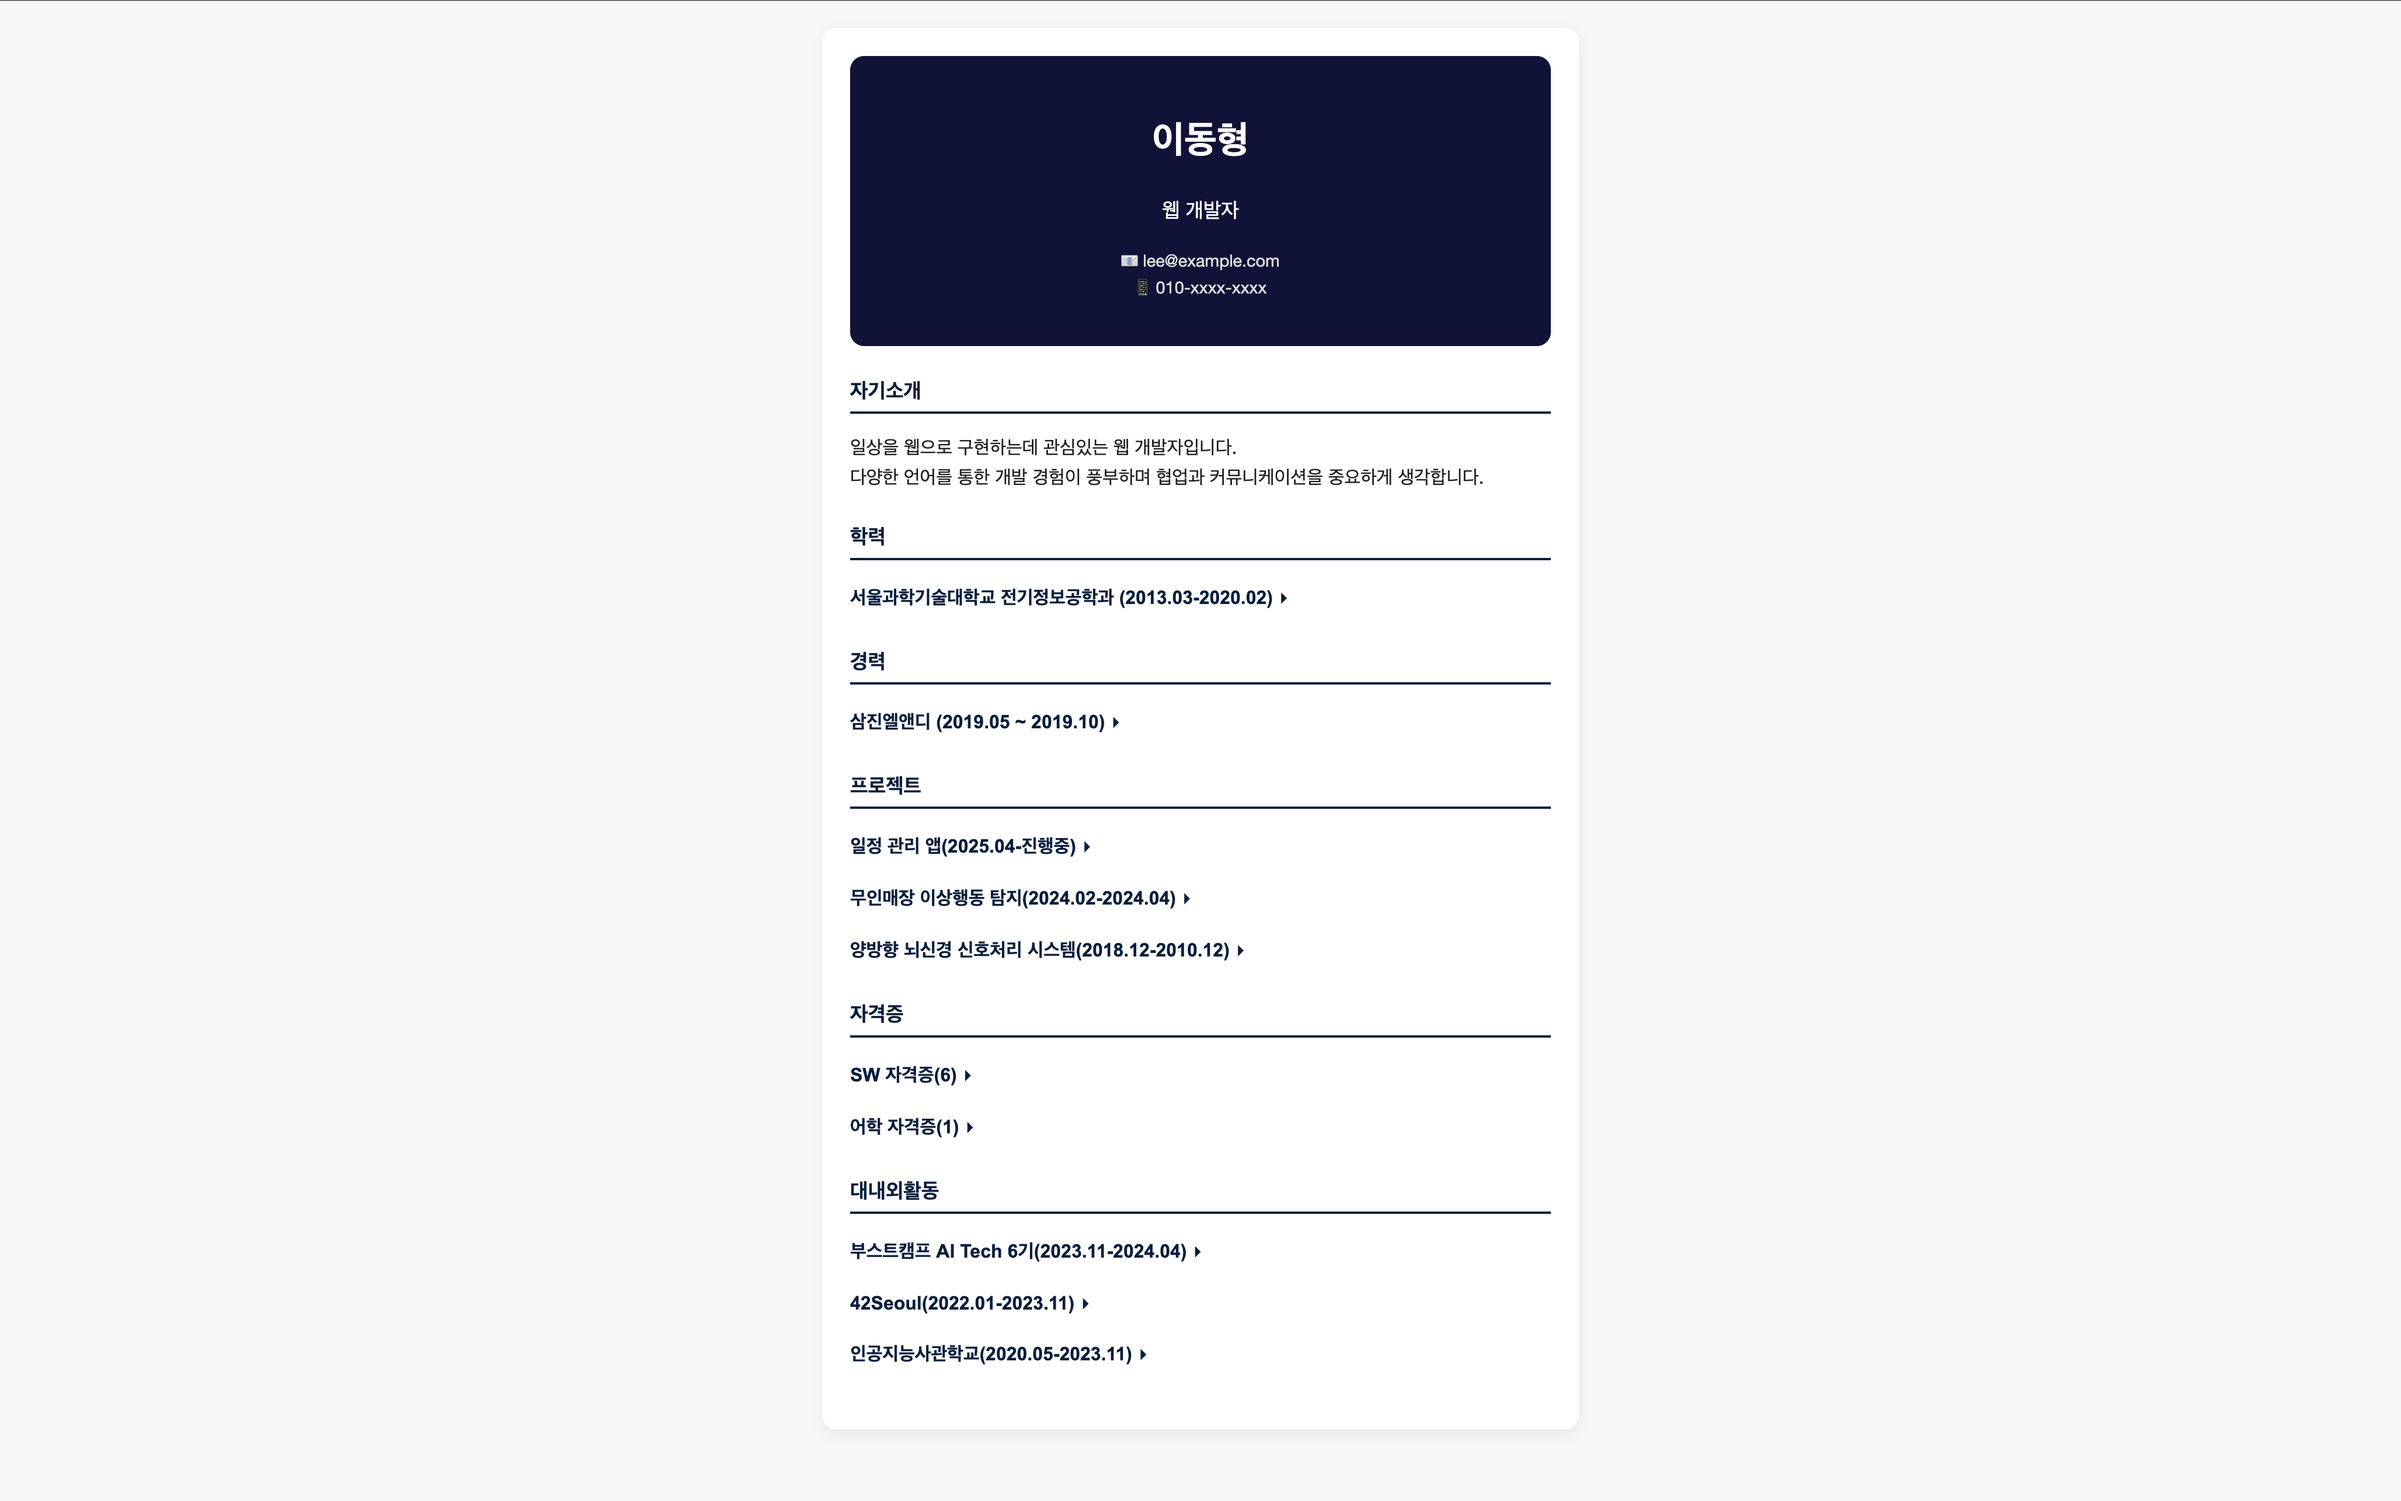
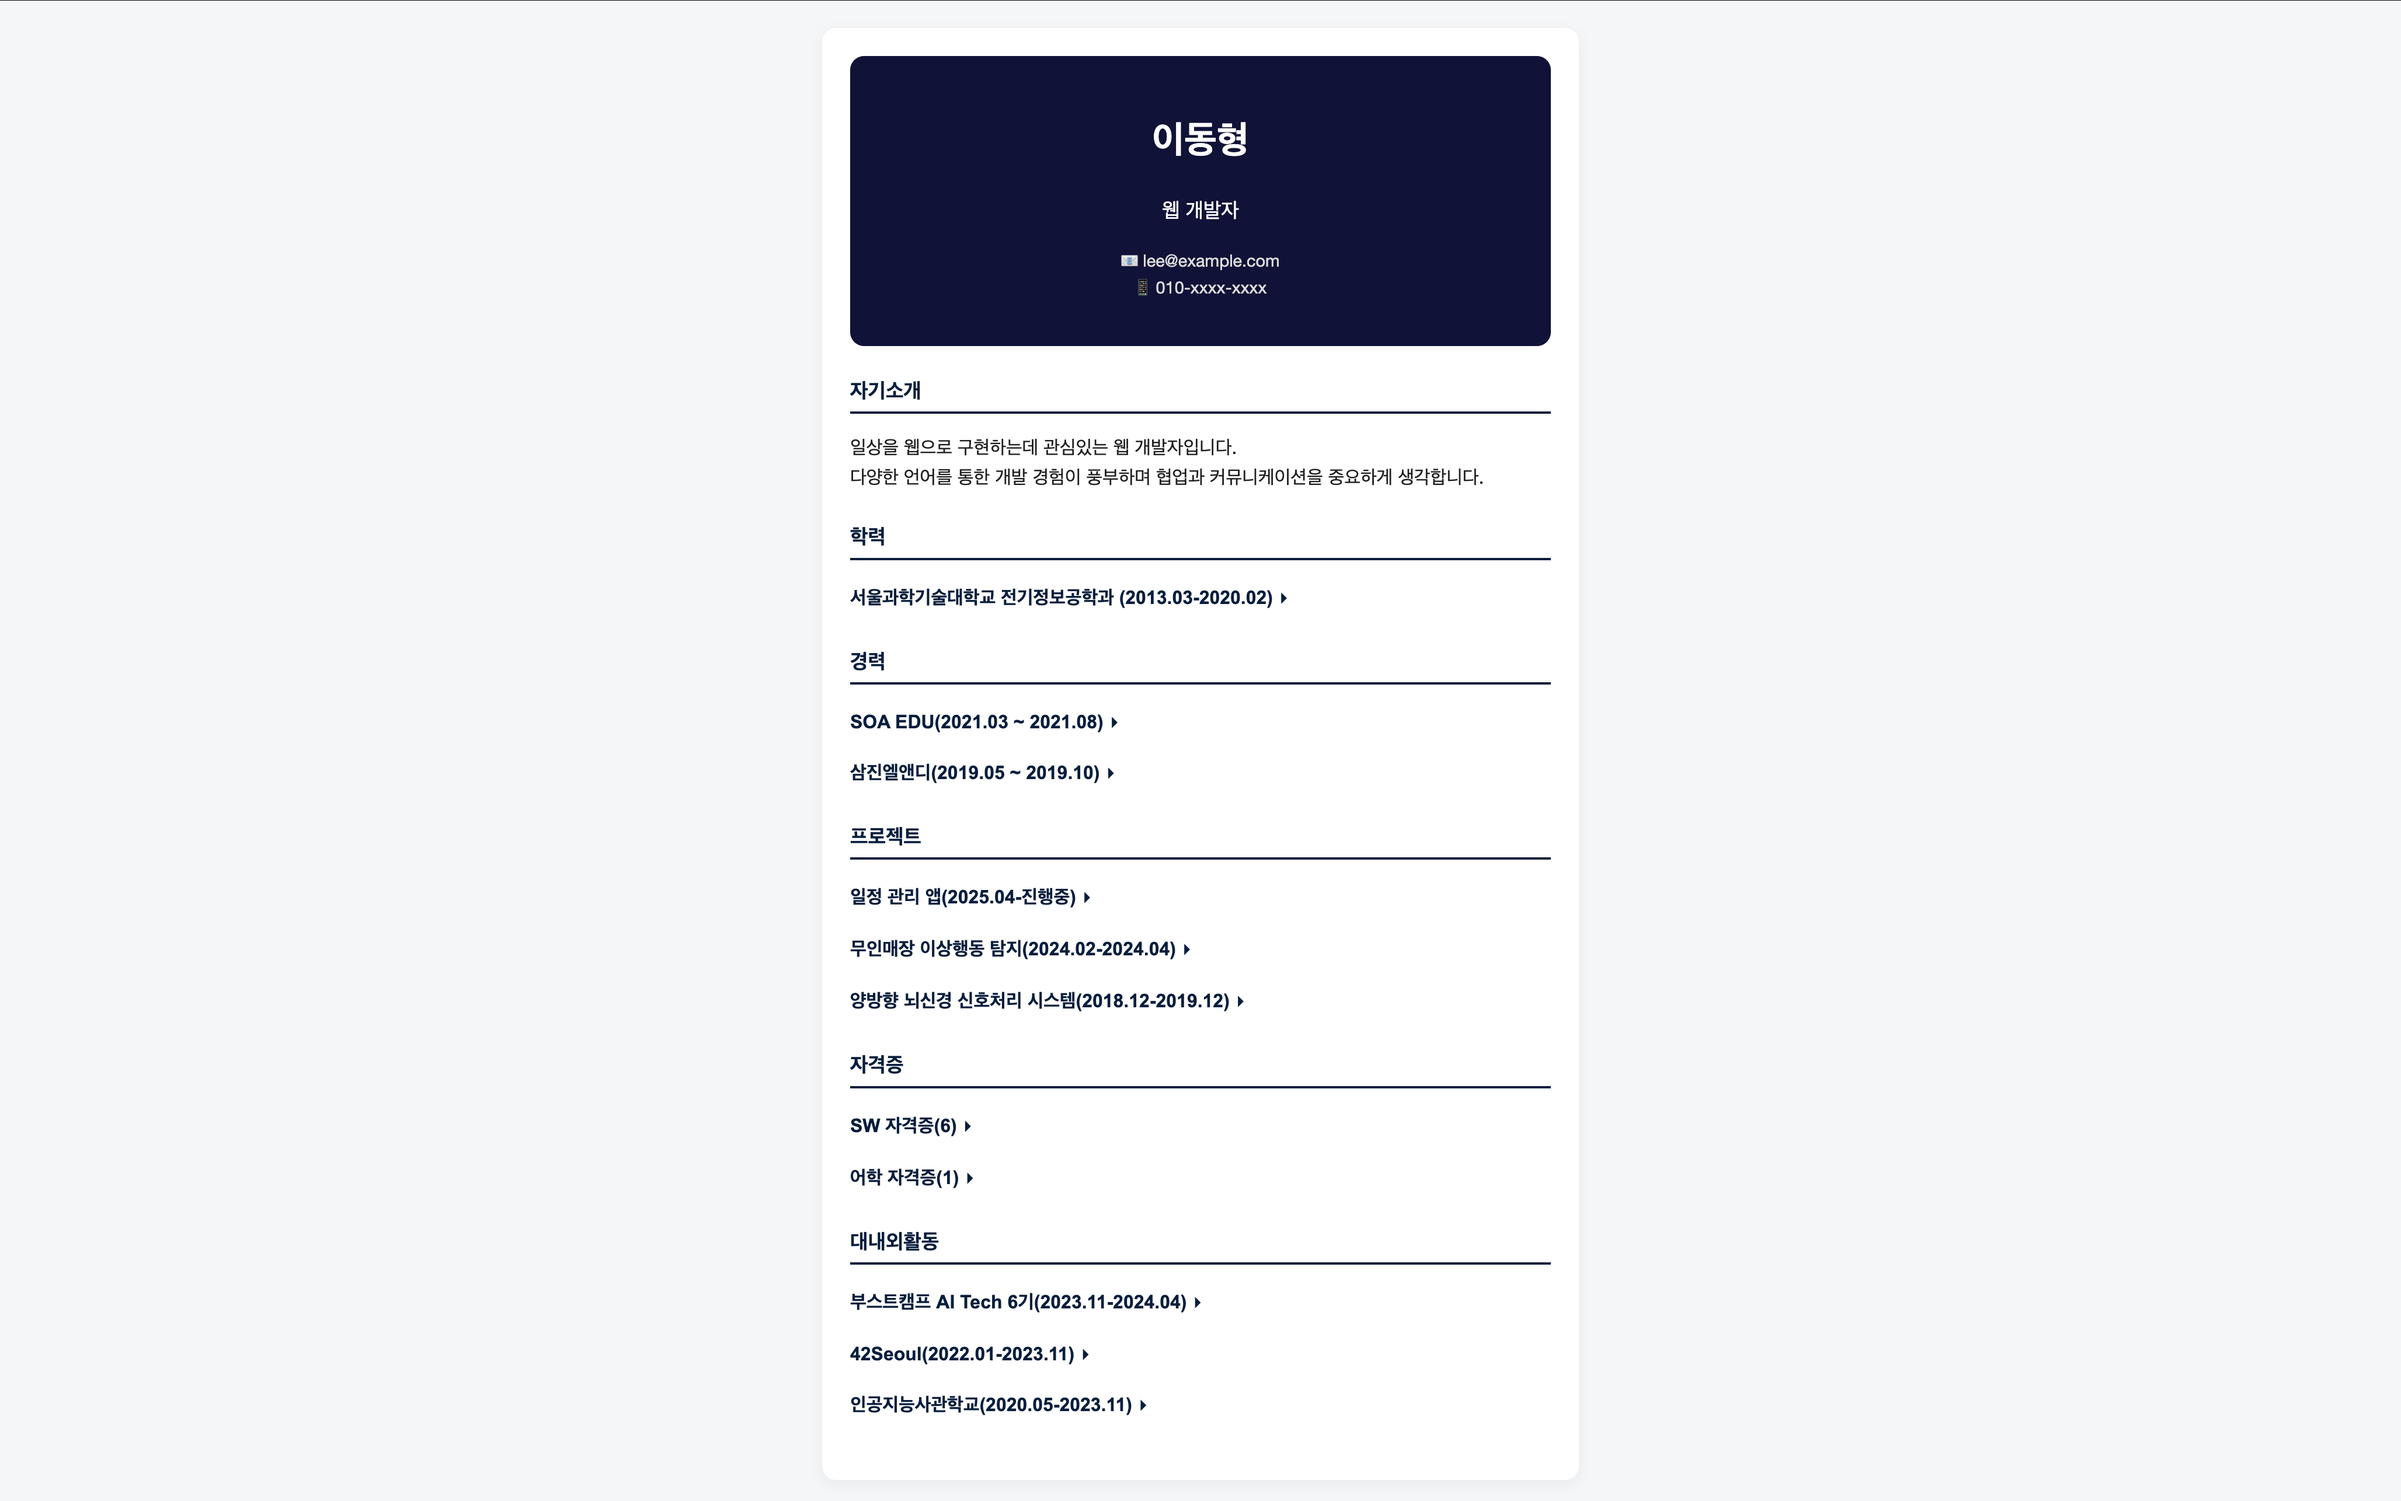
refactor: 버전별 프로젝트 정리

Changed region(s): [[0.3424, 0.4666, 0.4981, 0.9642]]

diff --git a/profile_v1/index.html b/profile_v1/index.html
@@ -1,0 +1,160 @@
+<!DOCTYPE html>
+<html lang="en">
+<head>
+    <meta charset="UTF-8">
+    <meta name="viewport" content="width=device-width, initial-scale=1.0">
+    <title>Document</title>
+    <link rel="stylesheet" href="./style.css">
+</head>
+<body>
+    <header>
+        <h1><a href="../index.html">cogito30</a></h1>
+        <div align="center">
+            <a href="https://cogito30.github.io/"><img alt="Static Badge" src="https://img.shields.io/badge/cogito30-%236ccad0"></a>
+            <a href="https://github.com/cogito30?tab=repositories"><img alt="Static Badge" src="https://img.shields.io/badge/cogito30-gray?logo=github"></a>
+            <a href="https://psychologyforpeople.tistory.com/"><img alt="Static Badge" src="https://img.shields.io/badge/Tistory-%23FF4500?logo=tistory&link=https%3A%2F%2Fpsychologyforpeople.tistory.com%2F"></a>
+            <a href="https://www.youtube.com/@cogito30"><img alt="Static Badge" src="https://img.shields.io/badge/youtube-%23FF0000?logo=youtube&link=https%3A%2F%2Fwww.youtube.com%2F%40cogito30"></a>
+        </div>
+    </header>
+
+    <main>
+        <article class="intro">
+            <h1>Introduce</h1>
+            <p>Welcome to cogito30!!</p>
+            <p>I graduated Electronic and Information Engineering in 2020</p>
+            <p>I'm currently interested in <code>Web Develope</code>, <code>Network</code>, <code>Data Analysis</code>, <code>AI</code>, <code>System Programming</code> </p>
+        </article>
+
+        <article class="education">
+            <h1>Education</h1>
+            <details>
+                <summary>Seoul National University of Science and Technology(2013.03-2020.02)</summary>
+                <ul>
+                    <li>Term: 2013.03.04-2020.02.21</li>
+                    <li>Major: Electrical and Information Engineering</li>
+                    <li>GPA: 3.63/4.5</li>
+                    <li>Project: 양방향 뇌신경 신호처리 시스템</li>
+                </ul>
+            </details>
+        </article>
+
+        <article class="extra_edu">
+            <h1>Extra Education</h1>
+            <details>
+                <summary>Boostcamp AI Tech(2023.11-2024.04)</summary>
+                <ul>
+                    <li>Term: 2023.11.06-2024.04.02</li>
+                    <li>Organizer: Naver Connect</li>
+                    <li>Domain: AI(Computer Vision)</li>
+                    <li>Detail</li>
+                    <ul>
+                        <li>Python, PyTorch, FastAPI</li>
+                        <li>AI Theory</li>
+                        <li>Image Classification(AlexNet, GoogleNet, ResNet, DenseNet)</li>
+                        <li>NLP(LSTM, GRU)</li>
+                        <li>Object Detection(YOLO, SDD, Efficient Det, RCNN, SPPNet)</li>
+                        <li>Segmentation</li>
+                        <li>AI Model(Video)</li>
+                    </ul>
+                    <li>Skill</li>
+                    <div>
+                        <img alt="python" src="https://img.shields.io/badge/Python-3776AB?style=flat-square&logo=Python&logoColor=white" /> 
+                        <img alt="scikit-learn" src="https://img.shields.io/badge/ScikitLearn-%23F7931E?style=flat-square&logo=scikit-learn&logoColor=white">
+                        <img alt="pytorch" src="https://img.shields.io/badge/PyTorch%20-%20%23EE4C2C?style=flat-square&logo=Pytorch&logoColor=white" />
+                        <img alt="tensorflow" src="https://img.shields.io/badge/Tensorflow%20-%20%23FF6F00?style=flat-square&logo=tensorflow&logoColor=white" />
+                        <img alt="django" src="https://img.shields.io/badge/Django%20-%20%23092E20?style=flat-square&logo=Django&logoColor=white" />
+                        <img alt="fastapi" src="https://img.shields.io/badge/FastAPI-%23009688?style=flat-square&logo=fastapi&logoColor=white" />
+                        <img alt="streamlit" src="https://img.shields.io/badge/Streamlit-%23FF4B4B?style=flat-square&logo=streamlit&logoColor=white" />
+                    </div>
+                    <li>[Project]: <a href="#">무인매장 이상행동 탐지</a></li>
+                </ul>
+            </details>
+            
+            <details>
+                <summary>42Seoul(2022.01 - 2023.11)</summary>
+                <ul>
+                    <li>Term: 2022.01.31 - 2023.11.01 </li>
+                    <li>Organizer: Innovation Academy</li>
+                    <li>Domain: Computer Science</li>
+                    <li>Detail</li>
+                    <ul>
+                        <li>Basic: Programming Language, Algorithm, Network, Operating System, Graphics, Linux Command, Git, Docker
+                        <li>Language: C, C++</li>
+                    <li>Tools: Vim, GCC, Make, CMake, Git</li>
+                    </ul>
+                    <li>[Project] ...</li>
+                </ul>
+            </details>
+
+        </article>
+
+        <article class="project">
+            <h1>Project</h1>
+            <details>
+                <summary>무인매장 이상행동 탐지(2024.02-2024.04)</summary>
+                <ul>
+                    <li>Term: 2025.02.12-2024.04.01</li>
+                    <li>Domain: AI / Web</li>
+                    <li>Detail</li>
+                    <ul>
+                        <li>UI Design with Bootstrap</li>
+                        <li>Frontend with Streamlit</li>
+                        <li>Backend with Python, FastAPI</li>
+                        <li>Deploy with AWS EC2, S3</li>
+                    </ul>
+                    <div>
+                        <li>Skill </li>
+                        <img alt="python" src="https://img.shields.io/badge/Python-3776AB?style=flat-square&logo=Python&logoColor=white" /> 
+                        <img alt="scikit-learn" src="https://img.shields.io/badge/ScikitLearn-%23F7931E?style=flat-square&logo=scikit-learn&logoColor=white">
+                        <img alt="pytorch" src="https://img.shields.io/badge/PyTorch%20-%20%23EE4C2C?style=flat-square&logo=Pytorch&logoColor=white" />
+                        <img alt="fastapi" src="https://img.shields.io/badge/FastAPI-%23009688?style=flat-square&logo=fastapi&logoColor=white" />
+                        <img alt="streamlit" src="https://img.shields.io/badge/Streamlit-%23FF4B4B?style=flat-square&logo=streamlit&logoColor=white" />
+                        <img alt="vscode" src="https://img.shields.io/badge/vscode-black?style=flat&logo=vscode&color=%2340AEF0" />
+                        <img alt="git" src="https://img.shields.io/badge/Git%20-%20%23F05032?style=flat-square&logo=Git&logoColor=white" />
+                        <img alt="macos" src="https://img.shields.io/badge/macos-%236851FF?style=flat-square&logo=macos&logoColor=white" />
+                    </div>
+                    <li>[Project]: <a href="https://github.com/cogito30/boostcamp_project">result</a></li>
+                </ul>
+            </details>
+
+            <details>
+                <summary>양방향 뇌신경 신호처리 시스템(2018.12-2019.12)</summary>
+                <ul>
+                    <li>Term: 2018.12-2019.12</li>
+                    <li>Domain: Embedded System</li>
+                    <li>Detail</li>
+                    <ul>
+                        <li>팀장 역할(일정관리/팀미팅관리) 및 보고서 작성</li>
+                        <li>측정부 설계 및 구현</li>
+                        <li>PT 발표</li>
+                    </ul>
+                    <li>[Project]: <a href="https://github.com/cogito30/circuit_project">result</a></li>
+                </ul>
+            </details>
+        </article>
+
+        <article class="certificate">
+            <h1>Certificate</h1>
+            <ul>
+                <li>SQLD(SQL개발자)</li>
+                <li>리눅스마스터 2급</li>
+                <li>정보처리기사</li>
+            </ul>
+            <ul>
+                <li>ADsP(데이터분석준전문가)</li>
+                <li>빅데이터분석기사</li>
+            </ul>
+            <ul>
+                <li>TOEIC Speaking(IH)</li>
+            </ul>
+            <ul>
+                <li>PCCP: Python(Lv3)</li>
+            </ul>
+        </article>
+    </main>
+
+    <footer>
+
+    </footer>
+</body>
+</html>

diff --git a/profile_v1/style.css b/profile_v1/style.css
@@ -1,0 +1,66 @@
+header > h1 {
+    margin-left: auto;
+    margin-right: auto;
+    text-align: center;
+    margin-top: 48px;
+}
+header > h1 > a {
+    text-decoration: none;
+    color: black;
+}
+
+main {
+    width: 70%;
+
+    position: relative;
+    background: white;
+    border: 1px solid gray;
+    border-radius: 16px;
+    box-shadow: 0 0 8px rgba(0, 0, 0, 0.04);
+
+    margin: 0 auto;
+    margin-top: 48px;
+    margin-bottom: 32px;
+
+    display: flex;
+    flex-direction: column;
+}
+
+main > article {
+    padding-left: 20px;
+    padding-right: 20px;
+    padding-bottom: 10px;
+    /* border: 1px solid black; */
+
+    &:hover {
+        background: linear-gradient(142deg, rgba(204,218,140,1) 0%, rgba(198,219,116,0.8771551724137931) 35%, rgba(82,215,197,0.5818965517241379) 69%, rgba(0,255,189,0.5043103448275862) 94%);
+    }
+}
+
+main > article.extra_edu > details > summary {
+    margin: 5px;
+}
+
+
+main > article.project > details > summary {
+    margin: 5px;
+}
+
+main > article.certificate > ul {
+    list-style: none;
+    margin: 0;
+}
+
+main > article.certificate > ul > li {
+    display: inline-block;
+    border: 1px solid black;
+    border-radius: 10px;
+
+    padding: 10px;
+    margin: 5px;
+
+    &:hover {
+        background: gray;
+        color: white;
+    }
+}

diff --git a/profile_v2/index.html b/profile_v2/index.html
@@ -91,7 +91,7 @@
                     </div>
                 </li>
                 <li class="item">
-                    <button class="item-title">양방향 뇌신경 신호처리 시스템(2018.12-2010.12) ▸</button>
+                    <button class="item-title">양방향 뇌신경 신호처리 시스템(2018.12-2019.12) ▸</button>
                     <div class="item-detail">
                         - 개발기간: 2018.12 ~ 2019.12<br />
                         - 분야: Embedded System<br />

diff --git a/README.md b/README.md
@@ -4,12 +4,13 @@
 HTML, CSS, JavaScript를 Resume 제작
 
 ## 버전별 특징
+- [v1](./profile_v1/)
 - [v2](./profile_v2): 기본 이력서 양식
 
 ## How To Use
 1) repository 다운받기
 ```
-git clone https://github.com/cogito30/js_profile2.git
+git clone https://github.com/cogito30/js_profile.git
 ```
 2) 버전별 폴더로 이동
 ```
@@ -18,5 +19,5 @@ cd <버전별 폴더>
 3) index.html를 브라우저로 열기
 
 ## Result
-#### Profile(v2)
-- ![v2](./profile_v2/result/result1.png)
+![profile(v1) 결과물]()
+![profile(v2) 결과물](./profile_v2/result/result1.png)

diff --git a/profile_v2/README.md b/profile_v2/README.md
@@ -1,4 +1,4 @@
-# Profile
+# Profile(v2)
 
 ## Description
 HTML, CSS, JavaScript를 Resume 제작
@@ -12,13 +12,6 @@ HTML, CSS, JavaScript를 Resume 제작
 - 프로젝트
 - 자격증 / 대내외활동
 
-## How To Use
-1) repository 다운받기
-```
-git clone https://github.com/cogito30/js_profile2.git
-```
-2) index.html를 브라우저로 열기
-
 ## Result
-![Profile 결과물1](./result/result1.png)
-![Profile 결과물2](./result/result2.png)
+![Profile(v2) 결과물1](./result/result1.png)
+![Profile(v2) 결과물2](./result/result2.png)

diff --git a/profile_v1/README.md b/profile_v1/README.md
@@ -1,0 +1,17 @@
+# Profile(v1)
+
+## Description
+HTML, CSS, JavaScript를 Resume 제작
+
+## 기능
+- 프로필 사진 & 이름
+- 자기소개
+- 학력
+- 대외활동
+- 프로젝트
+- 자격증
+
+## Result
+![Profile(v1) 결과물1](./result/result1.png)
+![Profile(v1) 결과물2](./result/result2.png)
+![Profile(v1) 결과물3](./result/result3.png)
